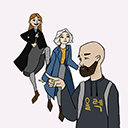
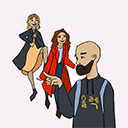
new about

diff --git a/_posts/2022-03-03-about.md b/_posts/2022-03-03-about.md
@@ -3,8 +3,23 @@ layout: post
 title: About us
 date: 2022-03-03 10:00:00 +0000 # Date and time for your event
 description: We're solving the challenge of developer marketing to game developers. # Post description
-img: devrel-events-750.png
+img: about-750.png
 tags: [DevRel, About, Developer Marketing] #Tags help site visitors find events. Add an own tag i.e. DevrelFolks and a city, if you feel like it 
 ---
 
+You can Subscribe to [youtube.com/devrelevents](https://www.youtube.com/devrelevents) to get a notification for new live-streams and video uploads. 
+
+<div class="embed-youtube">
+<iframe width="100%" height="auto" src="https://www.youtube.com/embed/4RiLXAQNf4A" frameborder="0" allow="accelerometer; autoplay; encrypted-media; gyroscope; picture-in-picture" allowfullscreen></iframe></div>
+
+We solve developer marketing challenge and help middleware providers talk to their users - programmers.
+There's more to it, but a simple take sounds like this:
+
+#### We make live meetups for programmers and produce videos, podcasts and blogposts out of it.
+It is like having a developer focused marketing department with experienced developer advocates and content production team.
+
 We're working on a proper text for this page. Stay tuned ;-)
+
+* A story of why we exist overall
+* 3 core team members
+* A set of trusted partners so we can scale up and down as needed

diff --git a/_posts/2022-01-05-partners.md b/_posts/2022-01-05-partners.md
@@ -1,8 +1,8 @@
 ---
 layout: post
-title: Why sponsoring us makes sense?
+title: You can buy our service
 date: 2022-01-05 10:00:00 +0000
-description: We respect your brand, love our community and deliver unpon the promise.
+description: Need help with developer marketing, developer relations or customer development?
 img: devrel-events-750.png
 tags: [DevRel, Meetups, About]
 ---
